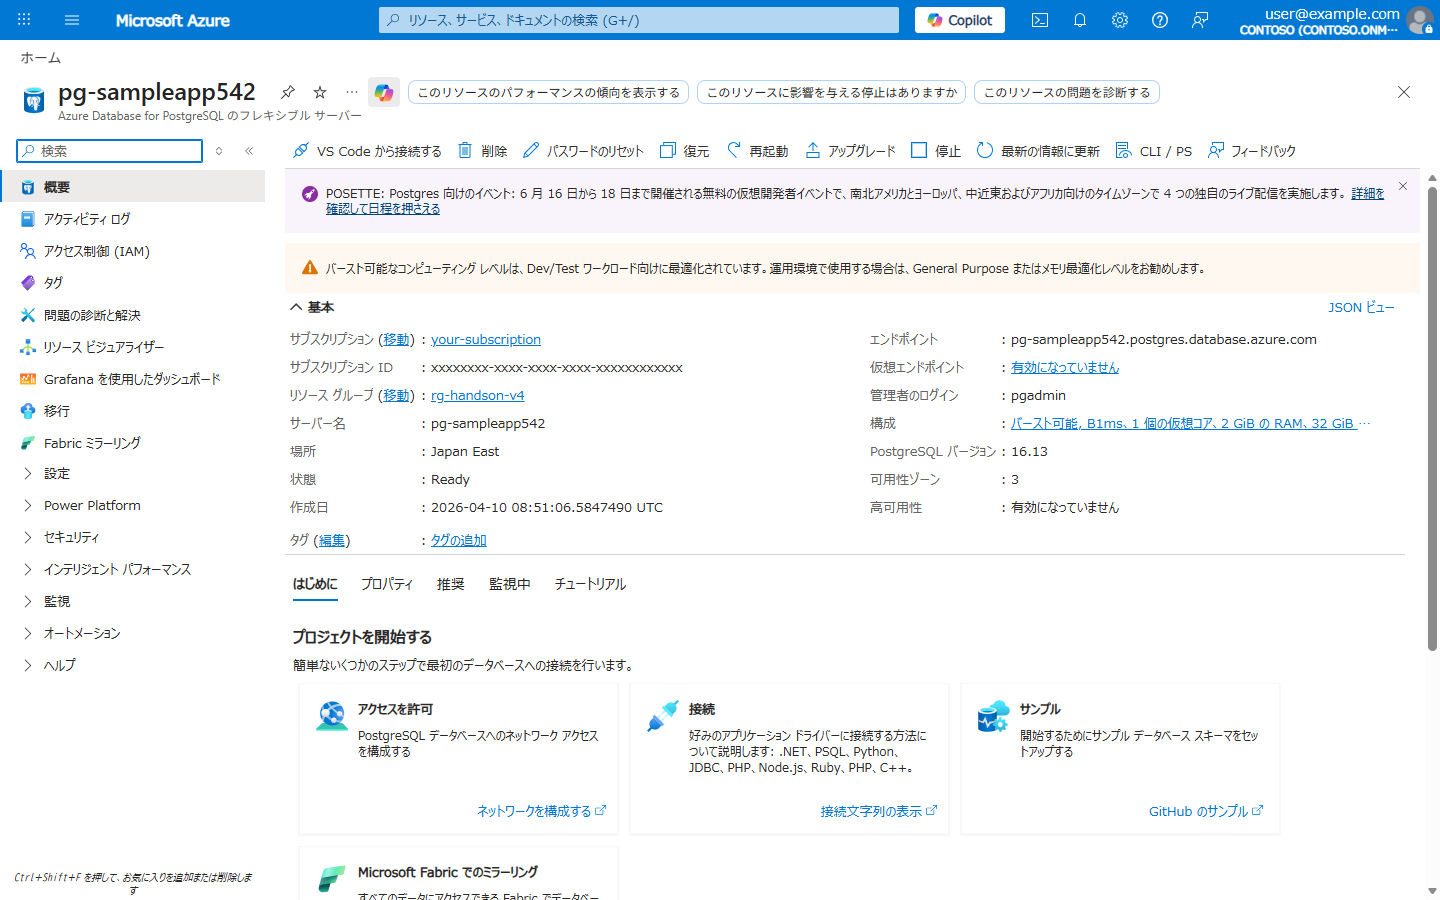
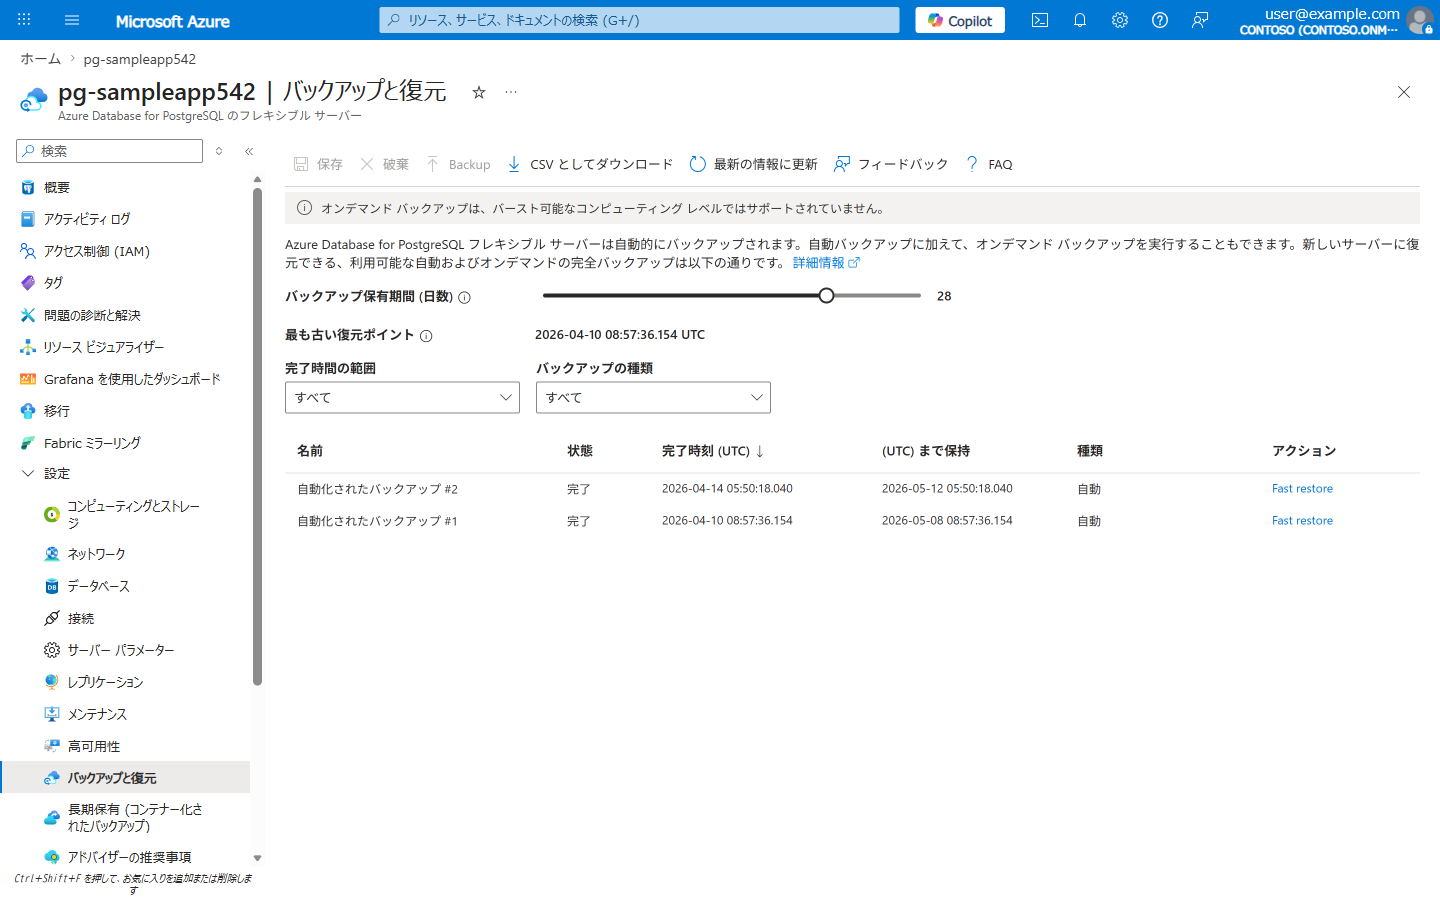
Lab06: 手順書改善+スクショ更新
- Step1: 比較表にスペック/月額概算/ネットワーク行追加
- Step2: バックアップ仕様修正(差分スナップショット日次明記)+バックアップと復元スクショ追加
- Step3: Portal操作ベースのPITR手順に書き換え+復元画面スクショ追加+WAL補足説明
- Step4: 3-2-1ルール説明追加+パブリックネットワーク注記
- Step5: ライフサイクル管理スクショ追加+Smart層(2026 GA)参考情報追記
- Step6: 冗長性ブレードスクショ追加(GRS: Japan East→Japan West)
- ストレージアカウントをLRS→GRSに修正

diff --git a/labs/lab06-backup-dr.md b/labs/lab06-backup-dr.md
@@ -65,7 +65,9 @@ az postgres flexible-server create \
 > **本番構成との対比**:
 > | 設定 | ハンズオン | 本番 (要件準拠) |
 > |------|-----------|---------------|
-> | SKU | Burstable B1ms | General Purpose D4s+ |
+> | SKU | Burstable B1ms (1 vCore / 2 GB) | General Purpose D4s+ (4 vCore / 16 GB) |
+> | 月額概算 | 約 3,040 円 ($0.026/hr) | 約 57,050 円 ($0.488/hr) |
+> | ネットワーク | パブリックアクセス | VNet 統合 (delegated subnet) |
 > | HA | Disabled | ZoneRedundant |
 > | Geo-backup | Disabled | Enabled |
 > | Retention | 28日 | 35日 |
@@ -92,43 +94,86 @@ az postgres flexible-server show \
 ```
 
 **PostgreSQL Flexible Server のバックアップ仕様**:
-- **自動バックアップ**: フルバックアップ (週次) + 差分バックアップ + WAL アーカイブ (継続的)
+- **自動バックアップ**: フルバックアップ (週次) + 差分スナップショット (日次) + WAL アーカイブ (継続的・数分間隔)
+- **要件充足**: 「日次バックアップ」要件は差分スナップショット + WAL の継続アーカイブにより満たされます
 - **PITR**: 直近5分前まで任意の時点に復旧可能 (要件: 「障害発生時点への復旧を可能とする」)
 - **保持期間**: 7～35日 (要件: 4週間 = 28日)
+
+**バックアップと復元 (Azure Portal)**:
+
+![バックアップと復元](../docs/screenshots/lab06/02-postgres-backup.png)
+
+*バックアップ保有期間 (28日)、最も古い復元ポイント、自動バックアップ一覧と Fast restore リンクが確認できます*
 
 ## Step 3: PITR (Point-in-Time Restore) の体験
 
 要件: 「障害発生時点への復旧を可能とする」
 
+### 3-1. Portal で PITR を確認
+
+1. Azure Portal で PostgreSQL サーバー (`pg-${PREFIX}`) を開く
+2. ツールバーの「**復元**」ボタンをクリック
+3. 復元画面で PITR の選択肢を確認:
+   - **最新の復元ポイント (現在)**: 直近の時点に復元
+   - **カスタム復元ポイントを選択する**: 任意の時点を秒単位で指定 (earliestRestoreDate 〜 直近5分前)
+   - **高速復元ポイントを選択する**: 完全バックアップのみを使用して素早く復元 (スナップショット時点に限定)
+
+![復元画面](../docs/screenshots/lab06/02b-postgres-restore.png)
+
+> **復元方式の違い**:
+> | | 高速復元ポイント | カスタム復元ポイント |
+> |---|---|---|
+> | 復元時点 | スナップショット時点のみ | 任意の時点 (秒単位) |
+> | 速度 | 速い (WAL リプレイ不要) | スナップショット → WAL リプレイで遅め |
+> | 用途 | 大まかな復旧で十分な場合 | 障害直前など正確な時点に戻したい場合 |
+
+### 3-2. リストア方式の理解
+
+Azure は内部で「フルスナップショット → 差分適用 → WAL リプレイ」を自動実行し、指定時点のデータ状態を再構築します。
+
+```
+フルスナップショット (週次)  →  差分スナップショット (日次)  →  WAL (継続的)
+         ↓                           ↓                          ↓
+    最寄りの基点        ──→      差分を適用       ──→   WAL でロールフォワード
+                                                          ↓
+                                                  指定時点のデータ状態
+```
+
+> **WAL (Write-Ahead Log) とは?**
+> データベースへの変更内容を、実データに反映する前に記録するログです。
+> SQL Server のトランザクションログ (.ldf) や Oracle の REDO ログに相当します。
+> INSERT / UPDATE / DELETE などの操作が発生するたびに WAL に書き込まれるため、
+> WAL を順に再生 (リプレイ) すれば、任意の時点のデータ状態を再現できます。
+> PostgreSQL Flexible Server では WAL が数分間隔で継続的にアーカイブされており、
+> これが PITR で「直近5分前まで秒単位で復元できる」仕組みの根拠です。
+
+> **注意**: リストアは元のサーバーを上書きするのではなく、**新しいサーバーとして作成**されます。
+> リストア後、アプリケーションの接続先を新サーバーに切り替える運用になります。
+
+### 3-3. CLI でのリストア (参考)
+
 ```bash
-# テスト用データベースの作成
-az postgres flexible-server db create \
-  --server-name "pg-${PREFIX}" \
+# PITR でリストア先サーバーを作成
+# ※ ハンズオンでは実行をスキップしても構いません (10-20分かかります)
+az postgres flexible-server restore \
+  --name "pg-${PREFIX}-restore" \
   --resource-group $RG_NAME \
-  --database-name "sampledb"
-
-# 現在時刻を記録 (復旧ポイントとして使用)
-RESTORE_POINT=$(date -u +"%Y-%m-%dT%H:%M:%SZ")
-echo "復旧ポイント: $RESTORE_POINT"
-
-# (数分待ってから) PITR でリストア先サーバーを作成
-# ※ 実際にリストアを行う場合:
-echo "================================================================"
-echo "PITR リストアコマンド (確認用、実行はオプション):"
-echo "================================================================"
-echo "az postgres flexible-server restore \\"
-echo "  --name pg-${PREFIX}-restore \\"
-echo "  --resource-group $RG_NAME \\"
-echo "  --source-server pg-${PREFIX} \\"
-echo "  --restore-time \"$RESTORE_POINT\""
-echo ""
-echo "※ リストアには 10-20分程度かかります"
-echo "※ ハンズオンでは実行をスキップしても構いません"
+  --source-server "pg-${PREFIX}" \
+  --restore-time "$(date -u +"%Y-%m-%dT%H:%M:%SZ")"
 ```
 
 ## Step 4: Blob Storage のバックアップ (長期アーカイブ)
 
 要件: 「文書管理規定に基づくデータは保管期間5年」「3-2-1ルール」
+
+> **3-2-1 ルールとは?**
+> データ保護のベストプラクティスで、以下の3条件を満たすことを求めます。
+>
+> | ルール | 意味 | この構成での実現方法 |
+> |--------|------|---------------------|
+> | **3** コピー | データを3つ以上保持 | Azure Storage は LRS でも同一 DC 内で3重複製。GRS ならプライマリ3 + セカンダリ3 = 計6コピー |
+> | **2** 種類のメディア | 異なる2種類以上の媒体に保存 | Blob Storage (オブジェクトストレージ) + PostgreSQL (マネージド DB の自動バックアップ) |
+> | **1** つはオフサイト | 少なくとも1つは別拠点に保管 | GRS により Japan West に自動レプリケーション |
 
 ```bash
 # ストレージアカウントの作成
@@ -141,6 +186,11 @@ az storage account create \
   --kind StorageV2 \
   --min-tls-version TLS1_2 \
   --allow-blob-public-access false
+
+# ※ ハンズオンではパブリックネットワークアクセスを許可しています
+# 本番環境では以下のいずれかでネットワークを制限してください:
+#   --public-network-access Disabled + Private Endpoint (Lab03 と同様)
+#   --default-action Deny + VNet サービスエンドポイント / IP 許可ルール
 
 # バックアップ用コンテナの作成
 az storage container create \
@@ -235,6 +285,24 @@ az storage account management-policy create \
 | Archive | 90日～5年 | 低 | 長期保管 (要件: 5年) |
 | 削除 | 5年超 | - | 自動削除 |
 
+**ライフサイクル管理 (Azure Portal)**:
+
+![ライフサイクル管理](../docs/screenshots/lab06/04-lifecycle-management.png)
+
+*archive-old-backups (アーカイブコンテナ用) と delete-old-logs (DB バックアップ用) の2つのルールが確認できます*
+
+> **参考: Smart 層 (2026年 GA)**
+> Azure Blob Storage に新しく追加された **Smart 層** を使うと、ライフサイクル管理ポリシーを自分で設計しなくても、アクセスパターンに基づいて Hot → Cool → Cold を自動で移行してくれます。
+>
+> - **30日間** アクセスなし → 自動で Cool へ
+> - **さらに60日間** アクセスなし → 自動で Cold へ
+> - アクセスされると即座に Hot に戻る
+> - 階層遷移・早期削除・データ取得の追加料金なし
+>
+> ただし **ZRS / GZRS / RA-GZRS が必須** (GRS / LRS では利用不可) で、**Archive 層は対象外** です。
+> 今回のハンズオンでは GRS + Archive の長期保管が必要なためライフサイクル管理ポリシーを使用していますが、Archive が不要なユースケースでは Smart 層の方がシンプルです。
+> 詳細: [スマート層を使用して Azure Blob Storage コストを最適化する](https://learn.microsoft.com/ja-jp/azure/storage/blobs/access-tiers-smart)
+
 ## Step 6: レプリケーション状態の確認
 
 要件: 「遠隔地に転送したバックアップデータ」
@@ -263,6 +331,12 @@ az storage account show \
   "statusOfSecondary": "available"
 }
 ```
+
+**冗長性 (Azure Portal)**:
+
+![冗長性](../docs/screenshots/lab06/05-geo-replication.png)
+
+*geo 冗長ストレージ (GRS) で Japan East (プライマリ) → Japan West (セカンダリ) にレプリケーションされていることが確認できます*
 
 ---
 
